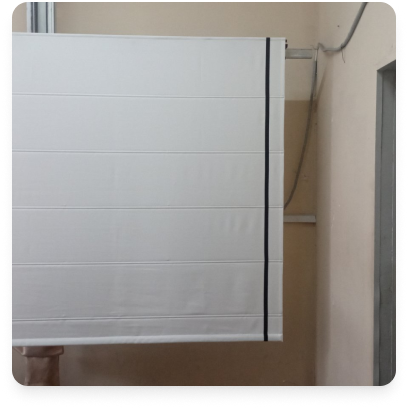
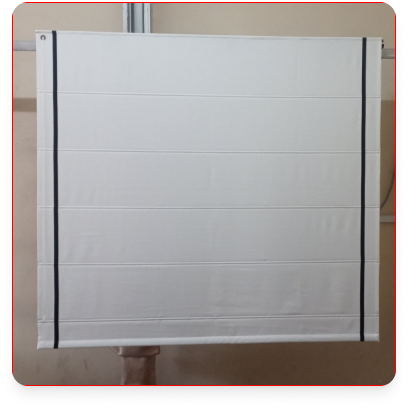
desktop done

diff --git a/src/components/JoinUs.vue b/src/components/JoinUs.vue
@@ -5,69 +5,74 @@ const phone = ref('');
 const email = ref('');
 </script>
 <template>
-  <div class="container" id="joinUs">
-    <h2 class="h-2">Звʼяжіться з нами</h2>
-    <div class="connection-div">
-      <div class="email-phone-container">
-        <div class="email-phone-div">
-          <div>
-            <img src="/email-icon.svg" alt="email" />
-            <p class="email-title">Email</p>
-            <p class="email-text">Ми завжди готові допомогти.</p>
-            <a class="email" href="mailto:inhortopt@gmail.com"
-              >inhortopt@gmail.com</a
-            >
+  <div class="wrapper" id="joinUs">
+    <div class="container">
+      <h2 class="h-2">Звʼяжіться з нами</h2>
+      <div class="connection-div">
+        <div class="email-phone-container">
+          <div class="email-phone-div">
+            <div class="content">
+              <img src="/email-icon.svg" alt="email" />
+              <p class="email-title">Email</p>
+              <p class="email-text">Ми завжди готові допомогти.</p>
+              <a class="email" href="mailto:inhortopt@gmail.com"
+                >inhortopt@gmail.com</a
+              >
+            </div>
+            <div>
+              <img src="/phone-icon.svg" alt="phone" />
+              <p class="email-title">Телефон</p>
+              <p class="email-text">Пн-Пт з 9:00 до 17:00</p>
+              <a class="email" href="tel:+380638466546">+380 63 846 65 46</a>
+            </div>
           </div>
+
           <div>
-            <img src="/phone-icon.svg" alt="phone" />
-            <p class="email-title">Телефон</p>
-            <p class="email-text">Пн-Пт з 9:00 до 17:00</p>
-            <a class="email" href="tel:+380638466546">+380 63 846 65 46</a>
+            <img src="/pointer-ison.svg" alt="pointer" />
+            <p class="email-title">Виробництво</p>
+            <p class="email-text">Завітайте до нашого головного офісу.</p>
+            <p class="email">
+              вул. Автоклубна, 31, Запоріжжя, Запорізька область, 69000
+            </p>
           </div>
         </div>
 
-        <div>
-          <img src="/pointer-ison.svg" alt="pointer" />
-          <p class="email-title">Виробництво</p>
-          <p class="email-text">Завітайте до нашого головного офісу.</p>
-          <p class="email">
-            вул. Автоклубна, 31, Запоріжжя, Запорізька область, 69000
-          </p>
+        <div class="form-div">
+          <form class="form">
+            <label class="label">
+              Ваше ім’я
+              <input
+                v-model="email"
+                class="input"
+                type="email"
+                placeholder="Василь"
+              />
+            </label>
+
+            <label class="label">
+              Номер телефона
+              <input
+                class="input"
+                type="tel"
+                v-model="phone"
+                placeholder="+380 (00) 000 00 00"
+              />
+            </label>
+            <button class="button" type="submit">Зв'язатися з нами</button>
+          </form>
         </div>
-      </div>
-
-      <div class="form-div">
-        <form class="form">
-          <label class="label">
-            Ваше ім’я
-            <input
-              v-model="email"
-              class="input"
-              type="email"
-              placeholder="Василь"
-            />
-          </label>
-
-          <label class="label">
-            Номер телефона
-            <input
-              class="input"
-              type="tel"
-              v-model="phone"
-              placeholder="+380 (00) 000 00 00"
-            />
-          </label>
-          <button class="button" type="submit">Зв'язатися з нами</button>
-        </form>
       </div>
     </div>
-
-    <div></div>
   </div>
 </template>
 
 <style scoped>
+.wrapper {
+  background-color: #333;
+}
 .container {
+  width: 1440px;
+  margin: 0 auto;
   padding: 96px 112px;
   background-color: #333;
 }
@@ -87,6 +92,7 @@ const email = ref('');
   display: flex;
   flex-direction: column;
   align-items: start;
+  justify-content: start;
   flex-shrink: 0;
   gap: 48px;
 }
@@ -94,10 +100,14 @@ const email = ref('');
 .connection-div {
   display: flex;
   align-items: center;
-  justify-content: space-between;
   gap: 72px;
 }
-
+.content {
+  display: flex;
+  flex-direction: column;
+  justify-content: start;
+  align-items: start;
+}
 .email-phone-div {
   display: flex;
   align-items: center;

diff --git a/src/components/Footer.vue b/src/components/Footer.vue
@@ -4,57 +4,64 @@ defineProps({
 });
 </script>
 <template>
-  <div class="footer-container" id="contacts">
-    <div class="logo-nav">
-      <div class="logo">
-        <img class="logo-svg" src="/img/logo.svg" alt="logo" />
-        <p class="logo-nav-desc">Римські штори гуртом від виробника</p>
-        <p class="rights">© 2026 ІНХОРТ. Всі права захищені.</p>
+  <div class="wrapper">
+    <div class="footer-container" id="contacts">
+      <div class="logo-nav">
+        <div class="logo">
+          <img class="logo-svg" src="/img/logo.svg" alt="logo" />
+          <p class="logo-nav-desc">Римські штори гуртом від виробника</p>
+          <p class="rights">© 2026 ІНХОРТ. Всі права захищені.</p>
+        </div>
+
+        <div class="nav">
+          <h2 class="h2-nav">Навігація</h2>
+          <nav>
+            <ul class="nav-links">
+              <li class="nav-link" @click="scrollTo('models')">Моделі</li>
+              <li class="nav-link" @click="scrollTo('personalization')">
+                Персоналізації
+              </li>
+              <li class="nav-link" @click="scrollTo('viewConfigurations')">
+                Конфігурації
+              </li>
+              <li class="nav-link" @click="scrollTo('ourSystems')">Системи</li>
+              <li class="nav-link" @click="scrollTo('contacts')">Контакти</li>
+            </ul>
+          </nav>
+        </div>
       </div>
 
-      <div class="nav">
-        <h2 class="h2-nav">Навігація</h2>
-        <nav>
-          <ul class="nav-links">
-            <li class="nav-link" @click="scrollTo('models')">Моделі</li>
-            <li class="nav-link" @click="scrollTo('personalization')">
-              Персоналізації
-            </li>
-            <li class="nav-link" @click="scrollTo('viewConfigurations')">
-              Конфігурації
-            </li>
-            <li class="nav-link" @click="scrollTo('ourSystems')">Системи</li>
-            <li class="nav-link" @click="scrollTo('contacts')">Контакти</li>
-          </ul>
-        </nav>
+      <div class="contacts">
+        <p class="contacts-title">Контакти</p>
+        <a class="contacts-text" href="tel:+380638466546">
+          <img src="/phone-red-ison.svg" alt="phone" />
+          +380 63 846 65 46
+        </a>
+        <a class="contacts-text" href="mailto:inhortopt@gmail.com">
+          <img src="/email-red-icon.svg" alt="email" />
+          inhortopt@gmail.com
+        </a>
+        <p class="contacts-text">
+          <img src="/pointer-red-icon.svg" alt="email" />
+          Україна
+        </p>
       </div>
-    </div>
-
-    <div class="contacts">
-      <p class="contacts-title">Контакти</p>
-      <a class="contacts-text" href="tel:+380638466546">
-        <img src="/phone-red-ison.svg" alt="phone" />
-        +380 63 846 65 46
-      </a>
-      <a class="contacts-text" href="mailto:inhortopt@gmail.com">
-        <img src="/email-red-icon.svg" alt="email" />
-        inhortopt@gmail.com
-      </a>
-      <p class="contacts-text">
-        <img src="/pointer-red-icon.svg" alt="email" />
-        Україна
-      </p>
     </div>
   </div>
 </template>
 
 <style scoped>
+.wrapper {
+  background: #101828;
+}
+
 .footer-container {
+  margin: 0 auto;
+  width: 1440px;
   display: flex;
   align-items: center;
   justify-content: space-between;
   padding: 60px 112px;
-  background: #101828;
 }
 
 .logo {

diff --git a/src/components/Reviews.vue b/src/components/Reviews.vue
@@ -12,31 +12,43 @@ const myCarousel = useTemplateRef('carousel');
   <div class="container" id="reviews">
     <h2 class="h-2">Відгуки наших клієнтів</h2>
     <p class="desc">Наша дружня команда завжди готова поспілкуватися</p>
-
-    <div class="slider">
-      <div class="navigation">
-        <div class="navBtn prev" @click="myCarousel.prev()">
-          <i
-            class="pi pi-arrow-left"
-            style="font-size: 30px; color: #bb0000"
-          ></i>
-        </div>
-        <div class="navBtn next" @click="myCarousel.next()">
-          <i
-            class="pi pi-arrow-right"
-            style="font-size: 30px; color: #bb0000"
-          ></i>
-        </div>
-      </div>
-
-      <div class="carousel-wrapper">
-        <carousel ref="carousel" :items-to-show="3" :snap-align="'start'">
-          <slide v-for="review in reviews" :key="review.id">
-            <ReviewItem :review="review" />
-          </slide>
-        </carousel>
-      </div>
+    <div class="reviews-div">
+      <ReviewItem
+        v-for="reviews in reviews"
+        :key="reviews.id"
+        :review="reviews"
+      />
     </div>
+
+    <!--    <div class="slider">-->
+    <!--      <div class="navigation">-->
+    <!--        <div class="navBtn prev" @click="myCarousel.prev()">-->
+    <!--          <i-->
+    <!--            class="pi pi-arrow-left"-->
+    <!--            style="font-size: 30px; color: #bb0000"-->
+    <!--          ></i>-->
+    <!--        </div>-->
+    <!--        <div class="navBtn next" @click="myCarousel.next()">-->
+    <!--          <i-->
+    <!--            class="pi pi-arrow-right"-->
+    <!--            style="font-size: 30px; color: #bb0000"-->
+    <!--          ></i>-->
+    <!--        </div>-->
+    <!--      </div>-->
+
+    <!--      <div class="carousel-wrapper">-->
+    <!--        <carousel-->
+    <!--          ref="carousel"-->
+    <!--          :items-to-show="3"-->
+    <!--          :snap-align="'start'"-->
+    <!--          :gap="0"-->
+    <!--        >-->
+    <!--          <slide v-for="review in reviews" :key="review.id">-->
+    <!--            <ReviewItem :review="review" />-->
+    <!--          </slide>-->
+    <!--        </carousel>-->
+    <!--      </div>-->
+    <!--    </div>-->
   </div>
 </template>
 
@@ -82,5 +94,11 @@ const myCarousel = useTemplateRef('carousel');
     max-width: 1440px;
     padding: 20px 0;
   }
+}
+.reviews-div {
+  width: 1440px;
+  margin: 0 auto;
+  display: flex;
+  gap: 32px;
 }
 </style>

diff --git a/src/components/OurSystems.vue b/src/components/OurSystems.vue
@@ -27,6 +27,8 @@ import { ourSystems } from '/src/data/productList.js';
 
 <style scoped>
 .container {
+  margin: 0 auto;
+  width: 1440px;
   display: flex;
   flex-direction: column;
   align-items: center;

diff --git a/src/components/Models.vue b/src/components/Models.vue
@@ -89,5 +89,7 @@ import { models } from '/src/data/productList.js';
   width: 384px;
   height: 384px;
   flex-shrink: 0;
+  object-fit: cover;
+  object-position: center;
 }
 </style>

diff --git a/src/components/Header.vue b/src/components/Header.vue
@@ -39,6 +39,7 @@ defineProps({
   padding: 21px 113px;
 }
 .logo {
+  margin: 0;
   width: 132px;
   height: 38px;
 }

diff --git a/assets/main.css b/assets/main.css
@@ -16,7 +16,7 @@ ul {
 
 img {
     display: block;
-    max-width: 100%;
+    margin: 0 ;
 }
 
 a {
